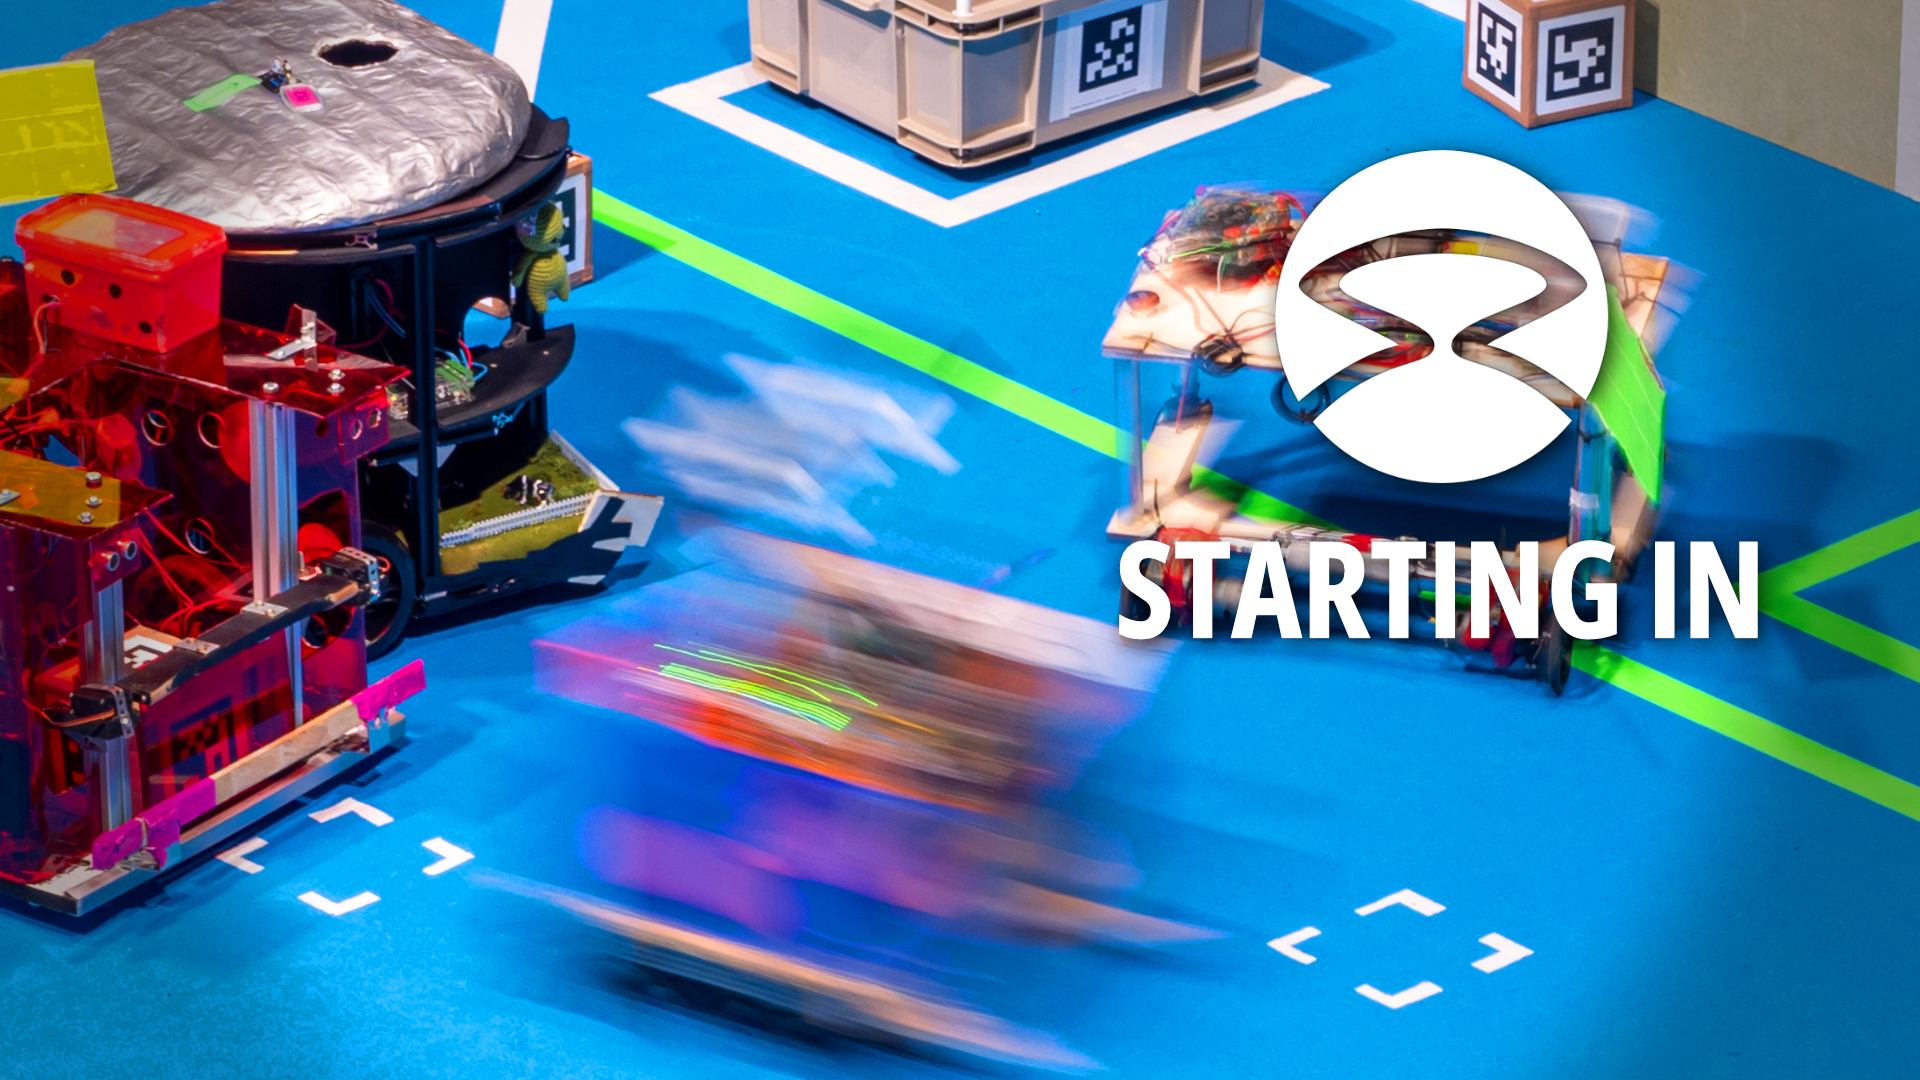
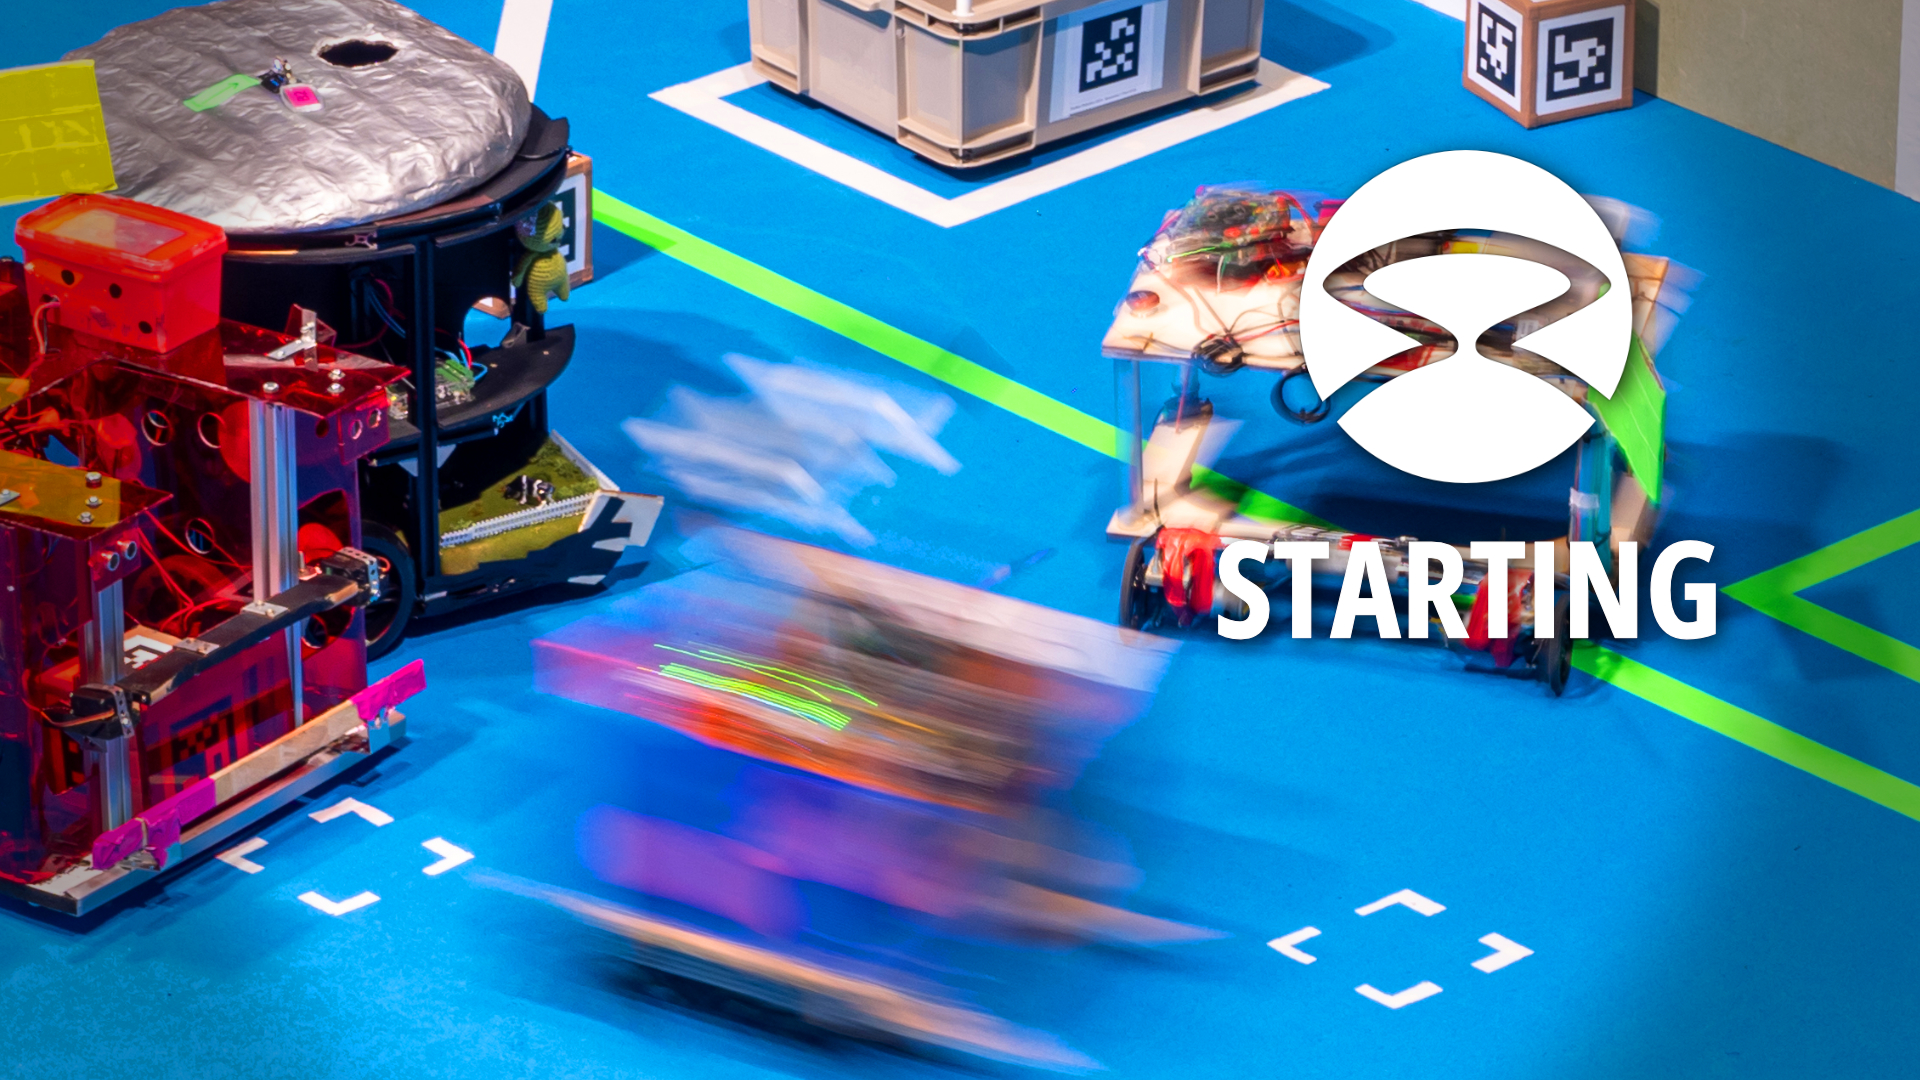
change background to remove in from fixed text
change dynamic countdown to include "in"

Changed region(s): [[0.6562, 0.1222, 0.875, 0.4583], [0.5625, 0.4889, 0.9375, 0.6111]]

diff --git a/static/index.css b/static/index.css
@@ -27,13 +27,13 @@ main h1 {
 main h1#countdown {
     font-family: 'Open Sans';
     font-weight: bold;
-    transform: translateX(72%) translateY(110%);
+    transform: translateX(79%) translateY(110%);
     text-shadow: 2px 2px 8px rgba(0, 0, 0, 0.8);
 }
 
 main h1#message {
     font-family: 'Open Sans';
     font-weight: bold;
-    transform: translateX(75%) translateY(70%);
+    transform: translateX(80%) translateY(70%);
     text-shadow: 2px 2px 8px rgba(0, 0, 0, 0.8);
 }

diff --git a/static/index.js b/static/index.js
@@ -11,7 +11,7 @@ function updateCountdown(target) {
     if (duration.valueOf() <= 0) {
         showMessage("Soon!");
     } else {
-        document.getElementById(COUNTDOWN_ELEMENT_ID).innerText = duration.toFormat("-hh:mm:ss");
+        document.getElementById(COUNTDOWN_ELEMENT_ID).innerText = `in ${duration.toFormat("hh:mm:ss")}`;
     }
 }
 
